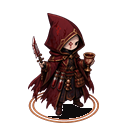
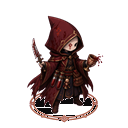
fix: give the remaining six allies distinct death beats
The six falls were the same kneel-and-side-lie in lockstep. Each ally now falls on their own beat, led by their own prop, with staggered timing and a held downed pose on the gold ring.

Changed region(s): [[0.1875, 0.0938, 0.8125, 0.9688]]

diff --git a/docs/art/STYLE_GUIDE.md b/docs/art/STYLE_GUIDE.md
@@ -316,9 +316,20 @@ This is an art lock only. TestArena keeps playing the existing idle, walk, and a
 
 | Clip | Frames | Playback intent |
 |------|--------|-----------------|
-| Death | 4 | One-shot fall / collapse at 8 frames per second (0.5 s). The clip does not loop. The sequence is a fall, not an attack that returns toward idle. Frame 01 is a standing hurt beat in the locked idle stance. Frames 02–03 are the fall. Frame 04 is the downed hold, meant to be held until settlement. |
+| Death | 4 | One-shot fall at 8 frames per second (0.5 s). The clip does not loop. The sequence is a fall, not an attack that returns toward idle. The six falls do not share one pose or one timing. Frame 04 is the held downed pose on the flat gold ring. |
 
 Files: `chr_ally_{oathblade|lampsister|misthunter|boneapostle|chainjudge|bloodacolyte}_death_01.png` … `_death_04.png`
+
+Played together at 8 fps, frames 01 / 02 / 03 are different beats. The prop leads and the body follows. Misthunter is the first clearly down. Lampsister is the last to go fully down. At frame 02 at least the lampsister and the boneapostle are still clearly more upright than the misthunter.
+
+| Ally | Tempo | Beat sheet |
+|------|--------|------------|
+| `oathblade` (烬誓剑士) | Mid, forward, sword leads | 01 still mostly upright, sword dipped. 02 staggers forward onto one knee, sword tip toward the ring. 03 collapses forward onto the ring, sword along the ground. 04 side-lie, sword with the body. |
+| `lampsister` (墓灯修女) | Late, soft, lantern leads | 01 still upright, lantern arm already low. 02 kneels with the torso still tall, lantern near the ring, robe kept off the ring. 03 folds sideways, lantern set on the ring. 04 curled side-lie, lantern in front of the hands and face. |
+| `misthunter` (雾行猎手) | Early, bow leaves the hand | 01 already breaking the draw, bow lowering, not a drawn-bow idle. 02 already falling, bow leaving the hands. 03 down on his hands, bow on the ground. 04 prone, bow along the ring. |
+| `boneapostle` (骨匣使徒) | Staff and reliquary lead | 01 staff tilting, body still up. 02 staff planted, relics shift, body starts to kneel. 03 the body falls around the staff and casket, a different silhouette from a generic crumple. 04 side-lie, staff and skulls readable on the ring. |
+| `chainjudge` (锁链判官) | Heavy, chain leads | 01 chain arm drops slack. 02 the chain piles on the ring, one knee down, cloak open. 03 heavy sit, and the gold ring stays readable. 04 side-lie, chain in front of the body. |
+| `bloodacolyte` (血契侍从) | Mid-late, cup and dagger lead | 01 cup tilts, still upright. 02 cup and dagger leave a stable hold and the body twists down. 03 down, cup on the ring, dagger nearby. 04 side-lie, face kept with the locked idle, cup and dagger readable. |
 
 Import matches the first ally death package and these characters' walk and attack frames:
 

diff --git a/docs/art/USAGE.md b/docs/art/USAGE.md
@@ -264,7 +264,18 @@ This is an art lock only. TestArena keeps playing the existing idle, walk, and a
 
 | Clip | Count | Naming |
 |------|-------|--------|
-| Death | 4-frame one-shot fall / collapse at 8 frames per second (0.5 s). The clip does not loop. The sequence is a fall, not an attack that returns toward idle. Frame 01 is a standing hurt beat in the locked idle stance. Frames 02–03 are the fall. Frame 04 is a downed / fallen hold pose, meant to be held until settlement. | `chr_ally_{oathblade\|lampsister\|misthunter\|boneapostle\|chainjudge\|bloodacolyte}_death_01.png` … `_death_04.png` |
+| Death | 4-frame one-shot fall at 8 frames per second (0.5 s). The clip does not loop. The six falls do not share one pose or one timing. Frame 04 is the held downed pose on the flat gold ring. | `chr_ally_{oathblade\|lampsister\|misthunter\|boneapostle\|chainjudge\|bloodacolyte}_death_01.png` … `_death_04.png` |
+
+Beat sheets, so a row of all six at 8 fps is not in lockstep. The prop leads and the body follows. Misthunter is the first clearly down. Lampsister is the last to go fully down.
+
+| Ally | Tempo | Frames |
+|------|--------|--------|
+| `oathblade` (烬誓剑士) | Mid, sword leads | 01 sword dips, still mostly up. 02 forward onto one knee, sword tip toward the ring. 03 collapses forward, sword along the ground. 04 side-lie, sword with the body. |
+| `lampsister` (墓灯修女) | Late, lantern leads | 01 still upright, lantern arm low. 02 kneels, torso still tall, lantern near the ring, robe off the ring. 03 folds sideways, lantern set on the ring. 04 curled side-lie, lantern in front of the hands and face. |
+| `misthunter` (雾行猎手) | Early, bow leaves the hand | 01 already breaking the draw, bow lowering. 02 already falling, bow leaving the hands. 03 down on his hands, bow on the ground. 04 prone, bow along the ring. |
+| `boneapostle` (骨匣使徒) | Staff and reliquary lead | 01 staff tilting, body still up. 02 staff planted, body starts to kneel. 03 body falls around the staff and casket. 04 side-lie, staff and skulls readable on the ring. |
+| `chainjudge` (锁链判官) | Heavy, chain leads | 01 chain arm drops slack. 02 chain piles on the ring, one knee down, cloak open. 03 heavy sit, gold ring stays readable. 04 side-lie, chain in front of the body. |
+| `bloodacolyte` (血契侍从) | Mid-late, cup and dagger lead | 01 cup tilts, still up. 02 cup and dagger leave a stable hold, body twists down. 03 down, cup on the ring, dagger nearby. 04 side-lie, face kept with the locked idle, cup and dagger readable. |
 
 | Setting | Value |
 |---------|--------|
